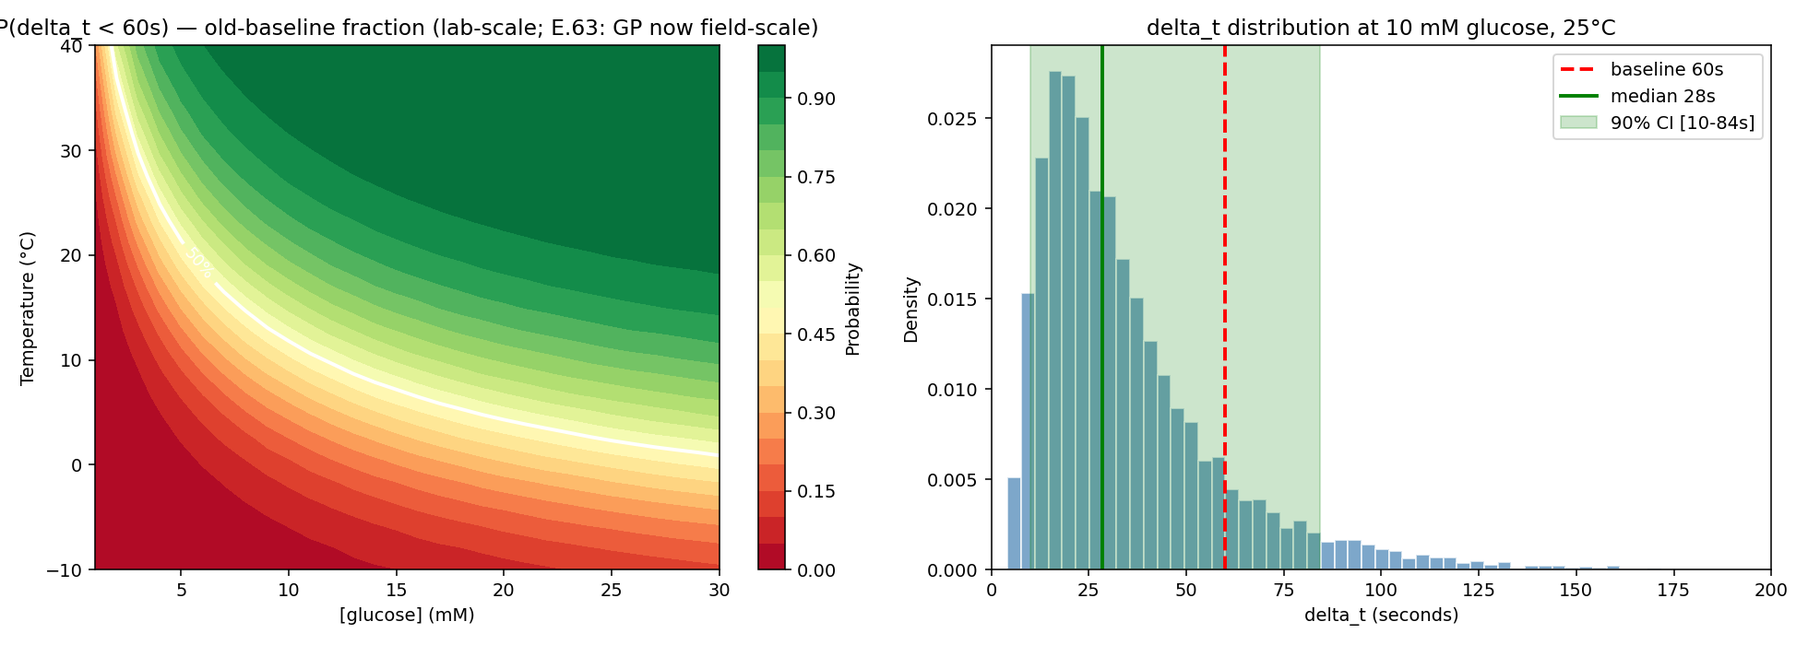
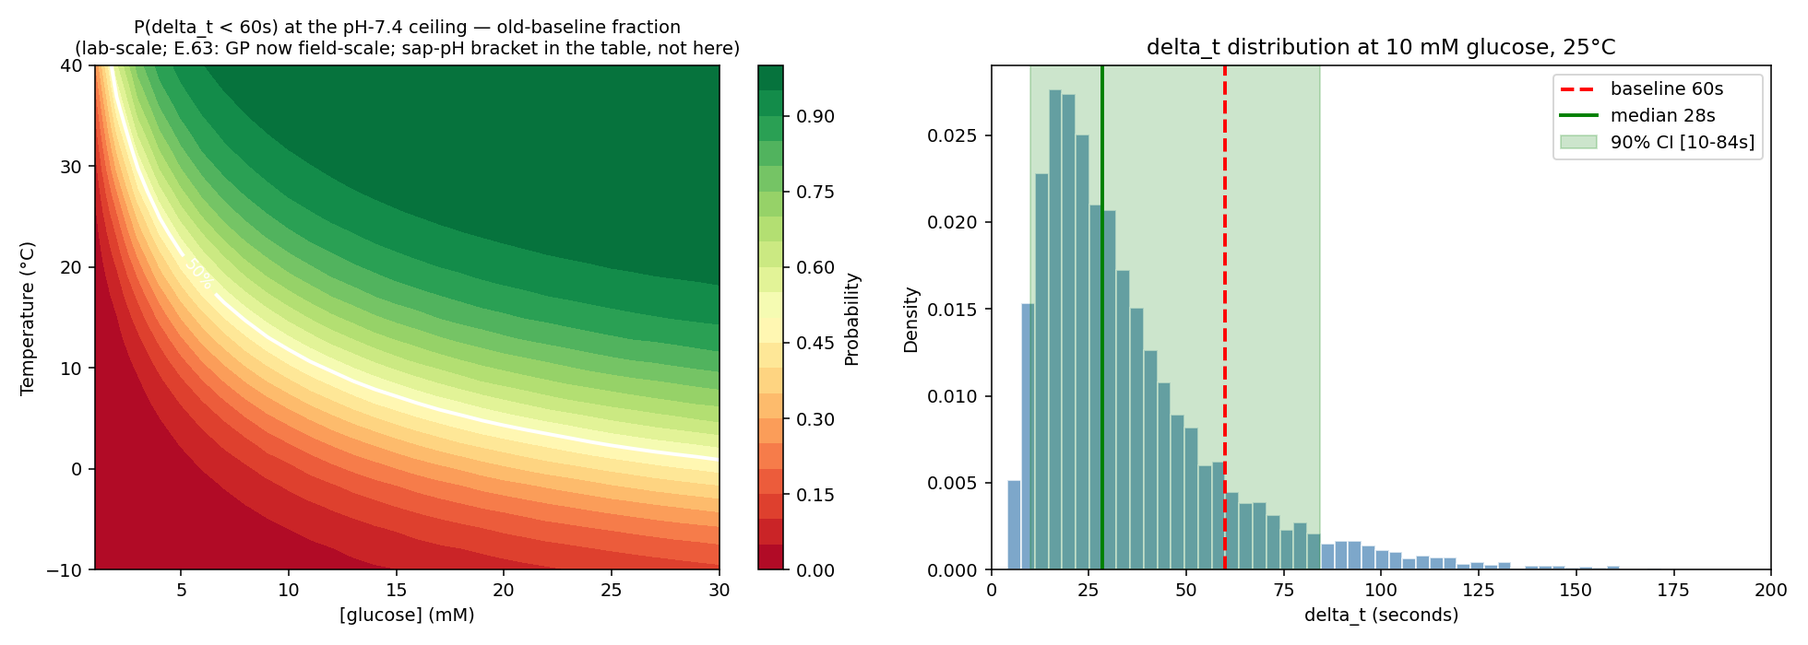
fix(HW.5.IS): присуд про pH-бракет стояв у `30` і НЕ доїхав до сестри `30b` — довіз
Нога «чутливість до `k_cat`» виявилась не новим обчисленням, а НЕЗАСТОСОВАНИМ
присудом. ⚖ 2026-09-18 ратифікував: модель лишається на pH-7.4 лабораторній
стелі, а sap-pH бракет друкується ПОРУЧ, бо поправка не є точкою. `30` це
виконав. Його сестра `30b` — ні: Monte-Carlo віддавав «90 % CI» по пʼятьох осях,
де вісь pH/`k_cat` відсутня цілком, і нічого в ньому не казало, що ця CI
умовна щодо середовища, якого ми не розгортаємо. Рівно клас `00_05 §4`: урок,
ратифікований для однієї ноги, на сестру сам не переходить.

📊 Тепер MC оголошує свою умову полем `conditional_on` і несе бракет поруч:

  Healthy summer   10.0–84.3 с (стеля)  →  14.7–146.0 с (sap pH 5.5)

🔑 Що транспорт МІНЯЄ і чого НЕ міняє: жоден сценарій не перетинає 60-с базу —
здорове й активне лишаються під нею, холод і стрес над нею, тож РОЗРІЗНЮВАЛЬНА
здатність, заради якої база існує, sap-pH штраф переживає. Не переживає
некваліфікованою верхня децила здорової смуги: 84 с → ~146 с.

⚠ І це доїхало в інвесторський рядок `PIPELINE_STATUS` («BASELINE_DELTA_T_S =
60s physically justified, 90 % CI 10-84s») та в канон прошивки `03_01` — обидва
тепер називають середовище разом із числом.

🏠 Формула pH-відношення жила в `30` і була потрібна обом — дублювати означало б
завести другу поверхню дрейфу (§When Modifying #25). Заведено `lib/kinetics.py`
за прецедентом `lib/mechanics.py`: MM-швидкість + [S]-залежне відношення, чистий
stdlib, один дім. `30` переведено на нього.
[…]

diff --git a/tools/in_silico/scripts/30b_kinetics_monte_carlo.py b/tools/in_silico/scripts/30b_kinetics_monte_carlo.py
@@ -44,6 +44,7 @@ from lib.constants import (
     TEMPERATURE_K,
     V_OP,
 )
+from lib.kinetics import ph_current_ratio
 from lib.utils import banner
 
 OUT_DIR = KINETICS_DIR
@@ -81,10 +82,38 @@ def main() -> int:
         ("Severe stress", 3, 0),
     ]
 
-    results = {"n_samples": N_SAMPLES, "scenarios": []}
+    # 🔴 The five axes above are NOT the whole uncertainty, and until 2026-09-21 nothing here said
+    # so. `J_MAX_25C` is a pH-7.4 LABORATORY CEILING (constants.py); our anode sits in sap at
+    # pH 5.75, and a quantified bracket for that shift has existed since ⚖ 2026-09-18. Script `30`
+    # obeyed that verdict and printed the bracket beside its table — its SIBLING here never did, so
+    # a CI conditional on the wrong medium was reading as the CI. The verdict is applied here now,
+    # in its ratified shape: printed BESIDE, never folded in (00_05 §4 — a rule ratified for one leg
+    # does not reach its sister by itself).
+    results = {
+        "n_samples": N_SAMPLES,
+        "conditional_on": {
+            "medium": "the sampled j_max is centred on the pH-7.4 laboratory ceiling "
+                      "(J_MAX_25C, constants.py) — the percentiles below are a CI AT THAT CEILING",
+            "not_sampled": ["the pH-driven k_cat/K_M shift toward sap pH 5.75"],
+            "why_not_folded_in": "⚖ founder 2026-09-18: the correction is not a point, so the "
+                                 "model stays on the ceiling and the bracket is printed beside it",
+            "bracket_source": "Sygmund 2011 Table 3 via lib.kinetics.ph_current_ratio — FREE enzyme, "
+                              "ferrocenium acceptor, 30 °C; both enzyme forms are kept because they "
+                              "disagree, and the disagreement IS the bracket",
+            "bracket_is_a_transport_not_an_added_variance": "each percentile is divided by the "
+                                                            "[S]-dependent current ratio, i.e. the "
+                                                            "whole distribution is moved to pH 5.5; "
+                                                            "the ratio carries the SOURCE's K_M "
+                                                            "shift while the sampled `km` spread is "
+                                                            "about OUR apparent constant — related "
+                                                            "axes, deliberately not summed",
+        },
+        "scenarios": [],
+    }
 
-    print(f"\n  {'Scenario':<20s}  {'Median':>8s}  {'5%':>8s}  {'95%':>8s}  {'vs 60s':>10s}")
-    print("  " + "-" * 62)
+    print(f"\n  {'Scenario':<20s}  {'Median':>8s}  {'5%':>8s}  {'95%':>8s}  {'vs 60s':>10s}"
+          f"  {'median at pH 5.5':>18s}")
+    print("  " + "-" * 82)
 
     for label, glu, tc in scenarios:
         dt = delta_t(glu, tc, km, ea, jmax, a_el, e_cyc)
@@ -93,13 +122,31 @@ def main() -> int:
         p5, p50, p95 = np.percentile(dt, [5, 50, 95])
         status = "< baseline" if p50 < BASELINE else "> baseline"
 
-        print(f"  {label:<20s}  {p50:>7.1f}s  {p5:>7.1f}s  {p95:>7.1f}s  {status:>10s}")
+        # The pH bracket: transport each percentile by the [S]-dependent current ratio.
+        # delta_t ∝ 1/current, so a ratio < 1 (slower enzyme at pH 5.5) LENGTHENS delta_t.
+        ratios = {f: ph_current_ratio(glu, f) for f in ("wt", "rec")}
+        ph_band = {f: {"ratio": round(r, 3),
+                       "p5_s": round(p5 / r, 1), "median_s": round(p50 / r, 1),
+                       "p95_s": round(p95 / r, 1)}
+                   for f, r in ratios.items()}
+        med_lo, med_hi = sorted(ph_band[f]["median_s"] for f in ratios)
+        ph_status = "< baseline" if med_hi < BASELINE else (
+            "> baseline" if med_lo > BASELINE else "straddles baseline")
+
+        print(f"  {label:<20s}  {p50:>7.1f}s  {p5:>7.1f}s  {p95:>7.1f}s  {status:>10s}"
+              f"  {med_lo:>8.1f}–{med_hi:.1f}s")
 
         results["scenarios"].append({
             "label": label, "glucose_mM": glu, "temp_C": tc,
             "p5_s": round(p5, 1), "median_s": round(p50, 1), "p95_s": round(p95, 1),
             "vs_baseline": status,
+            "ph55_bracket": ph_band,
+            "ph55_median_low_s": med_lo, "ph55_median_high_s": med_hi,
+            "ph55_vs_baseline": ph_status,
         })
+    print("  ⚠  The last column is the SAME distribution transported to pH 5.5, not a wider CI —")
+    print("      it says where the whole band sits if the sap-pH penalty is real, and its source is")
+    print("      a free-enzyme measurement at 30 °C applied at every temperature here.")
 
     # Heatmap: P(delta_t < 60s) as function of glucose × temp
     banner("Computing P(delta_t < 60s) heatmap")
@@ -122,7 +169,7 @@ def main() -> int:
     ax.clabel(cs, fmt={0.5: "50%"}, fontsize=9)
     ax.set_xlabel("[glucose] (mM)")
     ax.set_ylabel("Temperature (°C)")
-    ax.set_title("P(delta_t < 60s) — old-baseline fraction (lab-scale; E.63: GP now field-scale)")
+    ax.set_title("P(delta_t < 60s) at the pH-7.4 ceiling — old-baseline fraction\n(lab-scale; E.63: GP now field-scale; sap-pH bracket in the table, not here)", fontsize=10)
     fig.colorbar(im, ax=ax, label="Probability")
 
     # Distribution at reference condition (10 mM, 25°C)

diff --git a/tools/in_silico/tests/test_doc_cache_sync.py b/tools/in_silico/tests/test_doc_cache_sync.py
@@ -1340,6 +1340,58 @@ CHECKS += [
 ]
 
 
+# ── L4b Monte-Carlo: the CI and the medium it is conditional on ──
+# ⛔ Both halves of every row are pinned. The left half is the number people quote; the right half
+# is the one that says which medium it belongs to, and a right half free to rot would let the left
+# half go back to reading as unconditional — which is exactly the defect this table was built to fix.
+MC = "kinetics/monte_carlo.json"
+_MC_ROWS = ("Healthy summer", "Active growth", "Cold winter", "Severe stress")
+
+
+def _mc(d, label: str):
+    return next(s for s in d["scenarios"] if s["label"] == label)
+
+
+def _mc_ph(d, label: str, key: str, fn):
+    row = _mc(d, label)["ph55_bracket"]
+    return fn(row[f][key] for f in row)
+
+
+# ⛔ Scenario labels are NOT unique in this file — the deterministic pH table of script `30` carries
+# the same four, so an unscoped row pattern matches two tables and the guard reports «ambiguous»
+# instead of drifting silently. Every MC row is therefore anchored on ITS OWN table header.
+_MC_TABLE = r"90 % CI at pH 5\.5 \(s\)[\s\S]{0,900}?"
+
+
+def _mc_cell(label: str, skip: int, end: str, bold: bool = False) -> str:
+    """One end of a `lo–hi` cell (or a plain cell when `end` is 'only'), inside the MC table."""
+    b = r"\*\*" if bold else ""
+    body = {"lo": rf"{b}{N}–[\d.]+{b}", "hi": rf"{b}[\d.]+–{N}{b}", "only": rf"{b}{N}{b}"}[end]
+    return _MC_TABLE + rf"\| {re.escape(label)} \|" + r"[^|]*\|" * skip + rf" {body} \|"
+
+
+CHECKS += [
+    (f"L4b MC · {lab} · {name} → monte_carlo (the CI and its medium are pinned together)",
+     SUMMARY, _mc_cell(lab, skip, end, bold), MC, resolver, 0.06)
+    for lab in _MC_ROWS
+    for name, skip, end, bold, resolver in (
+        ("ceiling CI low", 0, "lo", False, lambda d, sc=lab: _mc(d, sc)["p5_s"]),
+        ("ceiling CI high", 0, "hi", False, lambda d, sc=lab: _mc(d, sc)["p95_s"]),
+        ("ceiling median", 1, "only", False, lambda d, sc=lab: _mc(d, sc)["median_s"]),
+        ("pH5.5 CI low", 2, "lo", True, lambda d, sc=lab: _mc_ph(d, sc, "p5_s", min)),
+        ("pH5.5 CI high", 2, "hi", True, lambda d, sc=lab: _mc_ph(d, sc, "p95_s", max)),
+        ("pH5.5 median low", 3, "lo", False, lambda d, sc=lab: _mc(d, sc)["ph55_median_low_s"]),
+        ("pH5.5 median high", 3, "hi", False, lambda d, sc=lab: _mc(d, sc)["ph55_median_high_s"]),
+    )
+] + [
+    (
+        "L4b MC · the upper-decile claim in prose → monte_carlo (the sentence that names the cost)",
+        SUMMARY, rf"moves from 84 s to about {N} s",
+        MC, lambda d: _mc_ph(d, "Healthy summer", "p95_s", max), 0.6,
+    ),
+]
+
+
 # ── L3b cathode DET: the k_DET table had SIX documents quoting it and ZERO pins until 2026-09-21 ──
 # ⛔ Every cell, not just the convenient ones: the table's message IS the spread, so a half-pinned
 # table would keep reading as a bracket while one end rotted. The tolerance is the doc's display

diff --git a/tools/in_silico/lib/kinetics.py b/tools/in_silico/lib/kinetics.py
@@ -1,0 +1,33 @@
+# SPDX-License-Identifier: AGPL-3.0-or-later
+"""Shared Michaelis-Menten / pH forms for the L4 kinetics scripts (30, 30b).
+
+One home for the forms themselves — the CONSTANTS they consume stay in `constants.py`, and the
+absolute results stay in each script's cache. Pure stdlib, so the unit tests stay CI-safe
+(stdlib-only, like `mechanics.py`, whose precedent this follows: a formula used by two scripts is
+a drift surface until it has one implementation — §When Modifying #25).
+"""
+from __future__ import annotations
+
+from .constants import PH_KINETICS_SYGMUND
+
+
+def mm_velocity(k_cat: float, km_mM: float, glucose_mM: float) -> float:
+    """Michaelis-Menten velocity in the units of `k_cat` (per-enzyme turnover, s⁻¹)."""
+    return k_cat * glucose_mM / (km_mM + glucose_mM)
+
+
+def ph_current_ratio(glucose_mM: float, form: str) -> float:
+    """Current ratio pH 5.5 / pH 7.5 at this glucose, from ONE enzyme form's own MM pair.
+
+    The ratio is **[S]-dependent** because both k_cat and K_M move with pH, and they move in
+    OPPOSITE directions for the current: k_cat falls, K_M falls too (higher affinity), so the two
+    partly cancel. Reporting a single factor would hide that.
+
+    ⚠ Source bounds travel with the number (`constants.PH_KINETICS_SYGMUND`): Sygmund 2011 Table 3
+    is the FREE enzyme with a ferrocenium acceptor at 30 °C — not our immobilised Os-polymer
+    electrode — so a consumer prints this BESIDE its model and never folds it in (⚖ 2026-09-18).
+    Both forms (`wt` ⊥ `rec`) are kept because they disagree, and the disagreement IS the bracket.
+    """
+    km_lo, kcat_lo = PH_KINETICS_SYGMUND[form][5.5]
+    km_hi, kcat_hi = PH_KINETICS_SYGMUND[form][7.5]
+    return mm_velocity(kcat_lo, km_lo, glucose_mM) / mm_velocity(kcat_hi, km_hi, glucose_mM)

diff --git a/tools/in_silico/scripts/30_kinetics_delta_t.py b/tools/in_silico/scripts/30_kinetics_delta_t.py
@@ -78,7 +78,6 @@ from lib.constants import (
     KINETICS_DIR,
     KM_GLUCOSE,
     N_ELECTRONS,
-    PH_KINETICS_SYGMUND,
     R_GAS,
     REPO_ROOT,
     TEMPERATURE_K,
@@ -87,6 +86,7 @@ from lib.constants import (
 
 T_REF = TEMPERATURE_K
 D_EFF = D_EFF_GLUCOSE
+from lib.kinetics import ph_current_ratio
 from lib.utils import banner
 
 OUT_DIR = KINETICS_DIR
@@ -123,20 +123,6 @@ def delta_t(glucose_mm: float, temp_c: float) -> float:
     p_ebfc = V_OP * j * A_ELECTRODE
     p_net = p_ebfc * ETA_BQ
     return E_CYCLE / p_net
-
-
-def ph_ratio(glucose_mm: float, form: str) -> float:
-    """Current ratio pH 5.5 / pH 7.5 at this glucose, from ONE enzyme form's own MM pair.
-
-    The ratio is [S]-dependent because both k_cat and K_M move with pH, and they move in
-    opposite directions for the current: k_cat falls, K_M falls too (higher affinity), so the
-    two partly cancel. Reporting a single factor would hide that.
-    """
-    km_lo, kcat_lo = PH_KINETICS_SYGMUND[form][5.5]
-    km_hi, kcat_hi = PH_KINETICS_SYGMUND[form][7.5]
-    v_lo = kcat_lo * glucose_mm / (km_lo + glucose_mm)
-    v_hi = kcat_hi * glucose_mm / (km_hi + glucose_mm)
-    return v_lo / v_hi
 
 
 def main() -> int:
@@ -244,7 +230,7 @@ def main() -> int:
     print("  " + "-" * 72)
     for glu, tc, label in ref_points:
         dt_ceiling = delta_t(glu, tc)
-        r_wt, r_rec = ph_ratio(glu, "wt"), ph_ratio(glu, "rec")
+        r_wt, r_rec = ph_current_ratio(glu, "wt"), ph_current_ratio(glu, "rec")
         dt_wt, dt_rec = dt_ceiling / r_wt, dt_ceiling / r_rec
         lo, hi = sorted((dt_wt, dt_rec))
         print(f"  {label:<22s}  {dt_ceiling:>8.1f}s  {r_wt:>6.2f}  {r_rec:>6.2f}  {lo:>9.1f}–{hi:.1f}s")

diff --git a/docs/00_07_Action_Plan_Tracker.md b/docs/00_07_Action_Plan_Tracker.md
@@ -631,7 +631,7 @@
 - [ ] 👤 **Aggrescan3D — друга половина рецепта [`L1 §2`](protocols/ebfc/in_silico/L1_protein_architecture.md), і саме вона тримає freeze гена.** Потребує акаунта, тому 👤 (⚖ founder 2026-09-17 — окрема сесія, щоб не відволікати корінь). Хостинги: `neurosnap.ai/service/Aggrescan3D` · `tamarind.bio/tools/aggrescan3d` (обидва — реєстрація). **Вхід готовий:** `docs/protocols/ebfc/in_silico/dgrGcGDH_AF3.pdb` (аглікозильована GcGDH + FAD — той самий файл, на якому стоїть увесь L1/L2). ⚠ Він несе FAD у `HETATM` — спершу як є (сервери зазвичай ліганди ігнорують); якщо відмовить, подати копію без `HETATM` (один `grep -v` — це не нова структура). **Параметри:** режим **Static** (динамічний ганяє CABS-flex і для нашого питання зайвий) · дистанція агрегації — дефолт 10 Å · ⛔ не вмикати автоматичну мутагенну оптимізацію на першому прогоні. **Повернути:** по-залишковий A3D-скор (CSV) · сумарний/середній скор · перелік залишків із додатним скором. 🔑 **Критерій, заради якого це роблять:** чи A3D позначає ТУ САМУ четвірку (Gln71/200/258/405), яку обрав наш проксі. Збіг посилює таргетинг; розбіжність означає, що чотири патчі є відповіддю ОДНОГО визначення, і тоді компенсацію переоцінюють — а отже й ген у Spec A
 - [ ] 🤖 **добити зовнішні вирівнювання Ser-гомологів** — у дереві одне попарне з восьми (EMBOSS Needle, *C. incanum*), і саме на цьому стоїть оголошена стеля методу: зовнішній MSA дає 61.9 % гепів у колонці 401. Рецепт розширення записаний у `tools/in_silico/data/chem11_conservation/README.md` (покласти `.aln` і дописати `external_pairwise`); найдешевший наступний — повтор job'а *Gnomoniopsis*, чий результат не забрався з мережі
 - [ ] 🌿 **AF3-перепрогноз на компенсованій послідовності** — окремий прогін із власним провенансом ([`L1 §2`](protocols/ebfc/in_silico/L1_protein_architecture.md) ⛔): доти модель, MD і SASA лишаються на послідовності 11 N→Q, і плутати їх із замовленим геном не можна
-- [ ] 🤖 **відкриті обчислення — із класами вартості** (детально → [`PIPELINE_STATUS`](protocols/ebfc/in_silico/PIPELINE_STATUS.md)): дешеві, CPU-секунди — `30`/`30b` чутливість до `k_cat` (✅ `25` закрито 2026-09-21: кожен рядок таблиці k_DET тепер бракет над знаком виміряного site-gap, а не ΔG = 0-дефолт — дім [`SUMMARY §Cathode`](protocols/ebfc/in_silico/SUMMARY.md)); ДОВГИЙ — `21e` ωB97X-серія (~12–21 год single-CPU); ⛔ гейтовані не браком часу: `27` Os-MD (GAFF не параметризує Os) і `34` COSMO-RS/MACE (нові залежності, і як ②-закривачі вже відмовлено). ⚠ «35 Cu/Ce λ» насправді Co — Cu-запису в `metal_reorganization.json` немає
+- [ ] 🤖 **відкриті обчислення — із класами вартості** (детально → [`PIPELINE_STATUS`](protocols/ebfc/in_silico/PIPELINE_STATUS.md)): ✅ дешеву половину закрито 2026-09-21 — `25` (кожен рядок таблиці k_DET тепер бракет над знаком виміряного site-gap, а не ΔG = 0-дефолт) і `30`/`30b` (чутливість до `k_cat`: MC-смуга оголосила, що вона при pH-7.4 стелі, і дістала sap-pH бракет поруч — ратифіковану ⚖ 2026-09-18 форму, яка доти стояла лише в сестринському `30`); доми — [`SUMMARY`](protocols/ebfc/in_silico/SUMMARY.md) §Cathode і §Kinetics; ДОВГИЙ — `21e` ωB97X-серія (~12–21 год single-CPU); ⛔ гейтовані не браком часу: `27` Os-MD (GAFF не параметризує Os) і `34` COSMO-RS/MACE (нові залежності, і як ②-закривачі вже відмовлено). ⚠ «35 Cu/Ce λ» насправді Co — Cu-запису в `metal_reorganization.json` немає
 - [ ] 🔗 **Capstones:** ④ строгий protein QM-cluster E° (розширення `32`) і CDFT-coupling (понад `24b`, потребує PyCDFT). ⛔ Explicit-water QM/MM — **не фах школи Мінаєва** ([`00_02 §2.1`](00_02_Academic_Integration_and_IP): їхній кут — spin-orbit / активація O₂), тож закриває або власний follow-up, або профільна computational-electrochemistry колаборація — **виконавця досі не названо, і це відкрите питання власника**
 - [ ] 🔗 [`HW.24`](00_07_Action_Plan_Tracker) **coin Stage 2 (A · B · C катода)** — після виміряної катодної EIS важіль читається з ратифікованого правила (0)–(3) ([`01_03 §3.2`](01_03_EBFC_Enzymatic_Bio_Fuel_Cell)), нового присуду не треба; ⛔ cMOF не обирається за жодної гілки
 - [ ] 🌿 **Gen 2.1+ кандидати — доми в каноні, тут лише тригери:** CHEM.8+2 V-хелатування (катехол безпечніший за IP6) — 🔗 вердикт [`HW.24`](00_07_Action_Plan_Tracker), [`01_03 §3.3`](01_03_EBFC_Enzymatic_Bio_Fuel_Cell) · CHEM.25 [Ch][DHP] — там само, ⚖ знято 2026-09-18, строк обирає тримач · CHEM.4 UCST-тюнінг мембрани · CHEM.1 metal-free медіатор (фенотіазин; buildable-каскад перетинається з [`E.29`](00_07_Action_Plan_Tracker)) · CHEM.3 FAD-GDH@ZIF-8 (глюкоза > апертури) · CHEM.13 жорсткий спейсер OPE · CHEM.9 ароматичний хопінг (низький) · CHEM.7 de novo фермент (Gen 3.0) — усі в [`01_03 §3.1`](01_03_EBFC_Enzymatic_Bio_Fuel_Cell)/[`§3.3`](01_03_EBFC_Enzymatic_Bio_Fuel_Cell), кожен зі своїм тригером

diff --git a/docs/03_01_Firmware_Lifecycle_and_DMA.md b/docs/03_01_Firmware_Lifecycle_and_DMA.md
@@ -278,7 +278,7 @@ last_wakeup_timestamp = current_time;
 
 > **🟡 tick ≠ wall-time у STOP2 — S1-wiring ✅ (2026-06-12), bench bring-up 👤.** `HAL_GetTick()` (SysTick) **заморожений** у STOP2 — стара tick-різниця міряла лише active-час (~секунди) замість wall-інтервалу заряджання → `m(delta_t)` ≈ максимум у всіх дерев → over-mint Proof-of-Growth. Тепер: `Wall_Seconds_Now()` читає RTC-календар (`Silken_Unix_From_Calendar`, FW.30-арифметика) — він free-running від 2000-01-01 ще ДО першого синку (дельтам цього досить), а beacon-UTC робить його абсолютним (`Wall_Calendar_Set`: `Silken_Civil_From_Unix`-інверсія, roundtrip host-пара з прямою функцією). Guard-и дельти (cold-start / зсув назад / стрибок епохи при першому синку → baseline) — `wall_time.h`. Wire `dT:2` сатурується @0xFFFF (wall-дельти бувають добами; wrap збрехав би бекенду). Cold-start `epoch_day` (SEC.11) — wall-first з `Silken_Wall_Is_Utc`-предикатом; tick-екстраполяція лишилась фолбеком (бекенд-кандидати — [`03_04`](03_04_mruby_Lorenz_Attractor) Mitigation A). Tick-таймери порогів (FW.27-B/FW.20-S2) ще раніше мігрували на лічильники пробуджень. **Wake-source ВИРІШЕНО** — RTC WUT + Vcap-енергогейт (ADR §1.10, founder 2026-06-07); 👤 лишається bench bring-up: LSE clock-tree + `MX_RTC_Init` (календар/WUT) + верифікація `Wall_Seconds_Now` на кремнії (RUNBOOK §4).
 
-> **In-silico L4 validation (2026-05-25):** Michaelis-Menten + Arrhenius модель підтверджує `BASELINE_DELTA_T_S=60` фізично обґрунтованим. Очікувані значення: здорове дерево (10 мМ глюкози, 25°C) → delta_t ≈ 19.9 с; стресоване (5 мМ, 5°C) → ≈ 100.7 с; Monte Carlo 90% CI для healthy: 10.0–84.3 с (усі три — η_BQ 0.68 post-[`00_07` HW.47](00_07_Action_Plan_Tracker); машинний дім чисел — `cache/kinetics/delta_t_lookup.json` + `monte_carlo.json`). Деталі → [`01_03 §3.4 L4`](01_03_EBFC_Enzymatic_Bio_Fuel_Cell), [`in_silico/SUMMARY.md`](protocols/ebfc/in_silico/SUMMARY.md).
+> **In-silico L4 validation (2026-05-25):** Michaelis-Menten + Arrhenius модель підтверджує `BASELINE_DELTA_T_S=60` фізично обґрунтованим. Очікувані значення: здорове дерево (10 мМ глюкози, 25°C) → delta_t ≈ 19.9 с; стресоване (5 мМ, 5°C) → ≈ 100.7 с; Monte Carlo 90% CI для healthy: 10.0–84.3 с (усі три — η_BQ 0.68 post-[`00_07` HW.47](00_07_Action_Plan_Tracker); машинний дім чисел — `cache/kinetics/delta_t_lookup.json` + `monte_carlo.json`). ⚠ **Усі три — при pH-7.4 лабораторній стелі**; для соку pH 5.75 та сама смуга Monte Carlo стоїть на **15–146 с** (⚖ 2026-09-18: бракет друкується ПОРУЧ, у модель не складається), тобто медіана здорового дерева лишається під 60 с, а верхня децила — ні. Деталі → [`01_03 §3.4 L4`](01_03_EBFC_Enzymatic_Bio_Fuel_Cell), [`in_silico/SUMMARY.md`](protocols/ebfc/in_silico/SUMMARY.md).
 
 **АЦП (два окремих цикли Start/Poll/Stop):**
 

diff --git a/docs/protocols/ebfc/in_silico/SUMMARY.md b/docs/protocols/ebfc/in_silico/SUMMARY.md
@@ -357,6 +357,30 @@ reciprocal collides numerically with the Ru row's ×31 and means the opposite th
 
 ⚠ The two ends are the **wild-type and recombinant forms of the same paper disagreeing** — that disagreement IS the bracket; electing one would manufacture precision the source does not carry. ⛔ And the pair was measured on the FREE enzyme with a small-molecule acceptor at 30 °C, so it is applied here as an indication for our immobilised Os-polymer electrode, not as its measurement; the 5 °C row additionally assumes a temperature-independent pH effect, which nobody measured.
 
+**The Monte-Carlo band carries the same condition — applied 2026-09-21, and it had been missing.**
+`30b` samples Km, Ea, j_max, area and E_cycle and reports a 90 % CI. 🔴 **That CI is also a
+pH-7.4 figure**, because the sampled j_max is centred on the same laboratory ceiling — and until
+2026-09-21 nothing in `30b` said so, while its sibling `30` had carried the ratified «print the
+bracket beside» shape since ⚖ 2026-09-18. A verdict ratified for one leg does not reach its sister
+by itself ([`00_05 §4`](../../../00_05_AI_Native_Operating_Model)); this is that transfer.
+
+| Scenario | 90 % CI at the ceiling (s) | median | **90 % CI at pH 5.5 (s)** | median at pH 5.5 | vs 60 s baseline |
+|---|---|---|---|---|---|
+| Healthy summer | 10.0–84.3 | 28.4 | **14.7–146.0** | 41.8–49.3 | < baseline |
+| Active growth | 5.1–39.8 | 13.7 | **8.4–75.4** | 22.5–26.0 | < baseline |
+| Cold winter | 51.0–489.4 | 157.0 | **68.2–780.9** | 209.9–250.5 | > baseline |
+| Severe stress | 103.5–1086.8 | 337.5 | **131.2–1654.1** | 427.6–513.7 | > baseline |
+
+⚠ The right-hand columns are the **same distribution transported**, not a wider CI: each percentile
+is divided by the [S]-dependent current ratio, so the band moves rather than spreads. The ratio
+carries the *source's* K_M shift while the sampled `km` spread is about *our* apparent constant —
+related axes, deliberately not summed (`conditional_on` in the cache says so).
+🔑 **What the transport does and does not change:** no scenario crosses the 60 s baseline — healthy
+and active stay under it, cold and stressed stay over it — so the *discrimination* the baseline
+exists for survives the sap-pH penalty. What does not survive unqualified is the **upper decile** of
+the healthy band, which moves from 84 s to about 146 s; a claim that quotes 10–84 s without naming
+pH 7.4 is quoting a medium we do not deploy in.
+
 ### EIS Predictions (for Ti-coin Stage 2)
 
 | Parameter | Predicted | Literature Range |

diff --git a/docs/protocols/ebfc/in_silico/PIPELINE_STATUS.md b/docs/protocols/ebfc/in_silico/PIPELINE_STATUS.md
@@ -45,7 +45,7 @@
 | 28b | `tunneling_ensemble` | **CHEM.16** Beratan-Onuchic over MD ensemble → β·d **2.02±0.13** (gating 1.03×, thermally robust; image_molecules PBC) | `dft/tunneling_ensemble.json` |
 | 29c | `outer_sphere_lambda` | anode outer-sphere λ_o (Marcus two-sphere, analytical) → total anode λ 0.76–0.86 eV phys-end (confirms lit 0.7–0.8); radius/ε-DOMINATED → INDICATIVE | `dft/outer_sphere_lambda.json` |
 | 30 | `kinetics_delta_t` | delta_t = 20s healthy / 101s stressed (η_BQ 0.68 post-[HW.47]; re-anchored on the dgrGcGDH asymptote 2026-09-18, HW.5.IS) | `kinetics/delta_t_lookup.json` |
-| 30b | `kinetics_monte_carlo` | 90% CI: 10–84s healthy (j_max sampled at its PROPAGATED 1σ, not a typed one) | `kinetics/monte_carlo.json` |
+| 30b | `kinetics_monte_carlo` | 90% CI: 10–84s healthy **at the pH-7.4 ceiling** (j_max sampled at its PROPAGATED 1σ, not a typed one); transported to sap pH 5.5 the same band sits at **15–146s** — printed beside, never folded in (⚖ 2026-09-18) | `kinetics/monte_carlo.json` |
 | 31 | `eis_impedance_model` | Rct=72.9Ω, Rs=100Ω | `kinetics/eis_model.json` |
 | 31b | `cathode_det_rct` | ③ cathode DET R_ct band ~0.002–230 Ω (borderline k_DET × unknown Γ, ×10⁵) → kinetic competition, not a fixed Rct; INDICATIVE | `kinetics/cathode_det_rct.json` |
 | 32 | `pcet_redox_potential` | E°(FAD/FADH₂) **-158 mV** (Δ50 mV vs free-flavin exp) — PCET valid w/ implicit solvent | `dft/pcet_redox_potential.json` |
@@ -126,7 +126,7 @@
 
 **Verdict: ✅ YES.** SUMMARY.md has all numbers. Key claims:
 - "EBFC Gen 2.0 validated in silico across 4 levels"
-- "BASELINE_DELTA_T_S = 60s physically justified (Monte Carlo 90% CI: 10-84s, re-anchored 2026-09-18)"
+- "BASELINE_DELTA_T_S = 60s physically justified (Monte Carlo 90% CI: 10-84s **at the pH-7.4 laboratory ceiling**, re-anchored 2026-09-18). ⚠ Transported to the sap set-point the same band is **15-146s**, so the healthy MEDIAN stays under 60 s but the upper decile does not — quote the medium with the number"
 - "Electrode cascade E°(Os) − E°(FAD-GDH) = +574 mV (verified E°s, Zafar 2012 + Schachinger 2023); raw DFT uphill = method limit decomposed by ②"
 - "ZIF cathode DET computed at the electronic-structure level — borderline at realistic λ, with a low-λ-metal (Ru) improvement path; which lever is taken is READ from the ratified rule (0)–(3) after the coin EIS, and the conductive-MOF branch is chosen by none of them (01_03 §3.2)"
 

diff --git a/tools/in_silico/README.md b/tools/in_silico/README.md
@@ -63,7 +63,7 @@ SSOT artifacts (PDB structures, validation results, papers) live in
 | 34b | `34b_wb97x_speciation.py` | L3: ωB97X ΔSCF cross-check of the ② speciation trend (functional-robustness) | ~hours |
 | 35 | `35_dft_metal_reorganization.py` | L3b ③: computed inner-sphere λ for the ZIF metal hops (Nelsen 4-point on [M(H₂O)₆]) | ~hours |
 | 30 | `30_kinetics_delta_t.py` | L4: EBFC kinetics → delta_t(glucose, temp) → growth_points directly (NOT β-perturbation — reversed, 00_07 E.63) | ~1 s |
-| 30b | `30b_kinetics_monte_carlo.py` | L4b: Monte Carlo uncertainty (10k samples) → 90% CI for delta_t | ~1 s |
+| 30b | `30b_kinetics_monte_carlo.py` | L4b: Monte Carlo uncertainty (10k samples) → 90% CI for delta_t **at the pH-7.4 ceiling**, with the sap-pH 5.5 band printed beside it (⚖ 2026-09-18 shape, applied here 2026-09-21) | ~1 s |
 | 31 | `31_eis_impedance_model.py` | L4c: EIS Randles circuit → Nyquist/Bode predictions for Ti-coin tests | ~1 s |
 | 31b | `31b_cathode_det_rct.py` | L4c ③: cathode DET R_ct band (borderline k_DET × unknown Γ) → kinetic competition, not a fixed Rct; INDICATIVE | ~1 s |
 | 40 | `40_validate_vs_experiment.py` | Ti-coin Stage 2: compare in-silico predictions vs experimental CV/EIS | ~1 s |

diff --git a/.claude/skills/in-silico/SKILL.md b/.claude/skills/in-silico/SKILL.md
@@ -51,6 +51,7 @@ L3b DFT cathode (CPU):
   24 (importlib) + 25 → 24c → 24d      25 + 31 → 31b
 
 L4 kinetics (CPU, seconds):
+  lib/kinetics (MM + the [S]-dependent pH-ratio form; ONE home) → 30 · 30b — a change re-runs BOTH
   lib J_MAX_25C → 30 · 30b · 31 · 57      22 · 30 · 30b · 31 → 40
 
 Paper: 60 (figures) · 61 (tables) read the L3/L3b caches — re-run them after any upstream change
